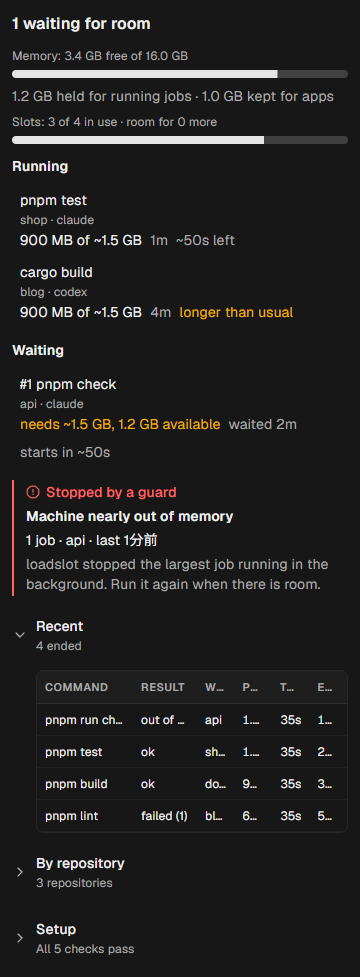
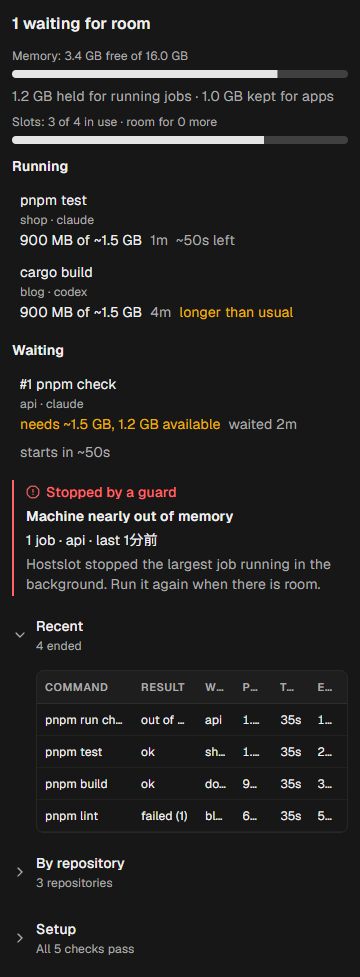
docs: rewrite the README for the public release (#84)

Changed region(s): [[0.0611, 0.5527, 0.9167, 0.5834]]

diff --git a/README.md b/README.md
@@ -1,28 +1,38 @@
 # Hostslot
 
+[![CI](https://github.com/ryusenkei-inc/hostslot/actions/workflows/ci.yaml/badge.svg)](https://github.com/ryusenkei-inc/hostslot/actions/workflows/ci.yaml)
+[![Release](https://img.shields.io/github/v/release/ryusenkei-inc/hostslot)](https://github.com/ryusenkei-inc/hostslot/releases)
+[![License: MIT](https://img.shields.io/badge/license-MIT-blue)](LICENSE)
+
 Run more coding agents in parallel without freezing your machine.
 
-Hostslot schedules what parallel coding agents share on one machine. Heavy commands (type checks, test runners, builds) get capacity: each starts when there is room in memory and CPU, the rest wait their turn, and a runaway is stopped before it takes the machine down. Exclusive resources such as dev-server ports get leased per worktree (planned).
+Hostslot schedules what parallel coding agents share on one machine:
 
-```sh
-hostslot run -- pnpm test     # waits for a slot, then runs pnpm test
-```
+- **Capacity for heavy commands.** Type checks, test runners and builds start when there is room in memory and CPU; the rest wait their turn, and a runaway is stopped before it takes the machine down
+- **A port for each dev server.** Every worktree's dev server gets its own port, and agents are told the URL, so they never reach another worktree's server
+
+<img src="docs/images/orca-panel.png" alt="The Hostslot panel in Orca: memory and slots, running and waiting jobs, a guard stop, recent jobs" width="360">
 
 ## Quick start
 
-1. Install: download the archive for your OS from [Releases](https://github.com/ryusenkei-inc/hostslot/releases) and put `hostslot` on your `PATH`, or `go install github.com/ryusenkei-inc/hostslot/cmd/hostslot@latest` (Go 1.26+).
-2. Connect your agents: `hostslot setup` registers the hooks of Claude Code and Codex.
-3. Check: `hostslot doctor`.
+**In [Orca](https://github.com/stablyai/orca):** add the Hostslot plugin, open its panel from the status bar and press **Install Hostslot**. It downloads the release for your OS, checks it, and connects Claude Code and Codex.
 
-To upgrade, replace the binary (on Windows, rename the running `hostslot.exe` first) and run `hostslot setup`, which also retires the old daemon.
+**Without Orca:**
 
-From then on, heavy commands your agents run go through Hostslot. `hostslot status` shows what runs and waits; in [Orca](#orca), the status bar and a panel show it.
+1. Download the archive for your OS from [Releases](https://github.com/ryusenkei-inc/hostslot/releases) and put `hostslot` on your `PATH`, or `go install github.com/ryusenkei-inc/hostslot/cmd/hostslot@latest` (Go 1.26+)
+2. `hostslot setup` registers the hooks of Claude Code and Codex
+3. `hostslot doctor` checks the setup
 
-In Orca, the plugin does steps 1 and 2 for you: its panel offers to install Hostslot and run its setup.
+From then on, your agents' heavy commands go through Hostslot and their dev servers get their own ports. `hostslot status` shows what runs and waits. To upgrade, replace the binary (on Windows, rename the running `hostslot.exe` first) and run `hostslot setup`.
+
+```sh
+hostslot run -- pnpm test      # waits for room, then runs pnpm test
+hostslot serve -- pnpm dev     # runs the dev server on this worktree's port
+```
 
 ## Why
 
-Several agents, each in its own worktree, start `tsc`, test suites and builds at the same time. On a 16 GB machine that exhausts memory: everything freezes and the OOM killer takes agents with it. Agent IDEs can cap the number of agents, but nothing coordinates the commands they run.
+Several agents, each in its own worktree, start `tsc`, test suites and builds at the same time. On a 16 GB machine that exhausts memory: everything freezes and the OOM killer takes agents with it. Their dev servers also start on the same default ports, and some quietly move to the next one, so an agent's tests reach another worktree's app. Agent IDEs can cap the number of agents, but nothing coordinates what the agents run.
 
 ### Why at the process level
 
@@ -31,13 +41,13 @@ Several agents, each in its own worktree, start `tsc`, test suites and builds at
 | Tool limits don't add up | `--maxWorkers` or an IDE's agent limit each bound one program; four agents that respect theirs still start four type checks together |
 | The cost is in commands | Agents cost little while they think. Gating their heavy commands, not the agents, keeps many agents working and lets only the heavy parts take turns |
 | Only the OS sees it all | The process tree shows a command's real memory, children included, in any language; the OS can also act on it (priority, Job Objects, signals) |
-| It works with anything | A command line in, the same command out: one gate for agents, people, git hooks and scripts |
+| It works with anything | A command line in, the same command out: one scheduler for agents, people, git hooks and scripts |
 
 The OS's own tools don't queue: cgroups and Job Object limits make a capped build fail instead of wait, early-OOM killers act after memory is gone, and the scheduler has no notion of jobs worth waiting for. Hostslot uses those mechanisms and adds a queue, priorities and learned costs.
 
 ### Hostslot and Orca
 
-Hostslot is made for [Orca](https://github.com/stablyai/orca) first, and the two do different jobs: Orca runs, shows and paces agents; Hostslot schedules the heavy work the agents start, across the whole machine, and guards memory while it runs. As of Orca 1.4.25x:
+Hostslot is made for Orca first, and the two do different jobs: Orca runs, shows and paces agents; Hostslot schedules what the agents start, across the whole machine. As of Orca 1.4.25x:
 
 | Need | Orca | Hostslot |
 | --- | --- | --- |
@@ -47,23 +57,23 @@ Hostslot is made for [Orca](https://github.com/stablyai/orca) first, and the two
 | Know a command's cost | Not covered | Learns peak memory and duration per repository |
 | Share CPU fairly | Not covered | Lower OS priority and inner parallelism per job |
 | Stop a runaway | Not covered (on Linux, one OOM kill no longer takes every terminal) | Per-job ceiling, out-of-memory stop, cleanup of leftovers |
-| Dev-server ports | Shows listening ports per workspace | Planned: a port leased per worktree |
+| Dev-server ports | Shows listening ports per workspace | Gives each worktree's dev server its own port and tells the agent the URL |
 | Scope | Orca's terminals | The whole machine: any editor or terminal, agent hooks, git hooks, scripts |
 
 ### Compared with similar tools
 
 | | File-lock wrappers | Generic command queues | OS limits (cgroups, Job Objects) | Per-worktree port tools | **Hostslot** |
 | --- | --- | --- | --- | --- | --- |
-| Scope | Commands you wrap | Commands you submit | Processes you put under them | Dev servers you start through them | Everything that runs heavy commands on the machine: agents, editors, terminals, git hooks, scripts |
+| Scope | Commands you wrap | Commands you submit | Processes you put under them | Dev servers you start through them | Everything that runs heavy commands or dev servers on the machine: agents, editors, terminals, git hooks, scripts |
 | Heavy commands wait instead of piling up | Yes, by a fixed count | Yes, by a fixed count | No: capped work fails | — | Yes, admitted by free slots and free memory |
 | Knows what a command costs | No | No | You set the limit | — | Learns peak memory and duration per repository and command |
 | People before agents | No | Manual priorities | No | — | Interactive jobs first; agents at a lower OS priority |
 | Shares CPU inside jobs | No | No | CPU quotas | — | Sets each job's worker count (test runners, workspace concurrency) |
 | Stops a runaway | No | No | At the limit, as an allocation failure | — | Per-job ceiling and out-of-memory stop, with a clear exit code; leftover processes cleaned up |
-| Agents need no new habits | A rule or wrapper to remember | Submit through the queue | Set up per process | A command or env file per worktree | Hooks rewrite the heavy commands in place, pipes and `&&` included |
+| Dev-server ports | — | — | — | A port per worktree | A port per worktree, handed to the tool (Vite included) and told to the agent |
+| Agents need no new habits | A rule or wrapper to remember | Submit through the queue | Set up per process | A command or env file per worktree | Hooks rewrite heavy and dev-server commands in place, pipes and `&&` included |
 | Shows what runs and waits | No | Its own list | No | Ports in use | Status bar and panel in Orca, `hostslot status` |
 | Windows, macOS, Linux | Mostly macOS and Linux | Varies | One OS each | Varies | All three |
-| Dev-server ports | — | — | — | Yes | Planned |
 
 ## How it works
 
@@ -94,7 +104,7 @@ You decide with `hostslot run`. The integrations decide like this:
 
 | Integration | Gated |
 | --- | --- |
-| Agent hooks (Claude Code, Codex) | Each heavy command in the line, rewritten in place (below); the rest of the line runs as written |
+| Agent hooks (Claude Code, Codex) | Each heavy command in the line, rewritten in place (see [Claude Code](#claude-code)); the rest of the line runs as written |
 | git pre-push | The push's `check` script |
 | Package scripts | Whatever you wrap |
 
@@ -106,6 +116,29 @@ A command is heavy when it is one of:
 - `go test|build|vet`, `cargo test|build|check|clippy`
 
 The line is parsed as shell, so text in quotes, heredocs and comments never counts. Installs, git, formatters and prose linters stay ungated and never wait. `hostslot hook claude --match <regex>` (or `hook codex`) replaces the list.
+
+## Dev-server ports
+
+Parallel worktrees, of one repository or several, start the same dev servers on the same default ports, and some (Vite) quietly move to the next one. Hostslot gives each service of each worktree its own port, keeps it, and hands it over:
+
+```sh
+hostslot serve -- pnpm dev          # hostslot: shop on http://localhost:21643 (PORT=21643)
+hostslot serve -- vite --port {port}
+hostslot serve --fixed 3000 -- pnpm dev   # a port that can't move (an OAuth callback): one worktree at a time
+hostslot port web                   # just print the port
+hostslot port --list                # every assigned port, with its worktree
+```
+
+| | |
+| --- | --- |
+| **Service** | The package's name without its scope (`@acme/shop` → `shop`), else its directory; `--name` to choose |
+| **Port** | The tool's default (Vite 5173, Next.js 3000) for the first service that asks while nothing listens on it, and it stays with it. Others get a free port from 20000-29999, starting where the key (repository + worktree + service) points |
+| **Handed over** | `PORT`, `PORT_<NAME>` and `HOSTSLOT_PORT`; `{port}` in the command; for Vite, `--port N --strictPort` appended, also over a port written in the script |
+| **Checked** | When nothing listens on the port after 30 s, it says the app likely ignores `PORT` and how to fix it |
+| **Freed** | When the worktree is removed |
+| **Slots** | None: a dev server runs for hours and doesn't wait for capacity |
+
+Agents' dev-server commands go through `hostslot serve` by themselves: the hooks below rewrite them and tell the agent the URL.
 
 ## What it learns
 
@@ -125,13 +158,10 @@ Each finished job adds a sample to `samples.json` in the data directory. Nothing
 
 This repository is also an Orca plugin (`orca-plugin.json` at the root, code in `apps/orca-plugin`).
 
-<img src="docs/images/orca-panel.png" alt="The Hostslot panel in Orca: memory and slots, running and waiting jobs, a guard stop, recent jobs" width="360">
-
 - **Status bar:** `Hostslot 2/4 · 1 waiting · 3.1 GB free`; yellow while jobs wait or the setup has a problem, red when memory is nearly gone
-- **Panel** (press the item to open the right sidebar, then pick the Hostslot tab once): memory and slots; running jobs with repository, worktree, agent and time left; waiting jobs with why and when they start; recent outcomes, with guard stops called out; jobs by repository; setup checks
-- **Install from the panel:** when Hostslot is missing or older than the plugin, the panel offers to install the plugin's version. On the press, it downloads the executable from the GitHub release, checks it against the release's `checksums.txt`, puts it in `bin` in Hostslot's data directory and runs `hostslot setup`. When a hook is missing, it offers `hostslot setup` alone. Nothing is downloaded or written before a press
-- It reads `hostslot status --json` every 5 seconds. It finds `hostslot` at `HOSTSLOT_BIN`, in its own `bin`, on Orca's `PATH`, in `~/.local/bin`, `~/go/bin`, WinGet's `Links` or Homebrew's `bin`
-- It only shows; gating comes from the agents' hooks
+- **Panel** (press the item to open the right sidebar, then pick the Hostslot tab once): memory and slots; running jobs with repository, worktree, agent and time left; waiting jobs with why and when they start; jobs a guard stopped; recent outcomes; jobs by repository; setup problems with one button to fix them
+- **Install from the panel:** when Hostslot is missing or older than the plugin, the panel offers to install the plugin's version. On the press, it downloads the executable from the GitHub release, checks it against the release's `checksums.txt`, puts it in `bin` in Hostslot's data directory and runs `hostslot setup`. Nothing is downloaded or written before a press
+- It reads `hostslot status --json` every 5 seconds and only shows; scheduling comes from the agents' hooks
 - Development: `orca plugin dev load .`, then `orca plugin logs local.hostslot`
 
 ### Claude Code
@@ -144,16 +174,21 @@ hostslot setup --remove   # remove it
 
 `setup` touches only its own entry (other keys keep their order, other tools' hooks stay), and points the hook at a path that survives upgrades when a package manager links one onto the `PATH`.
 
-The hook rewrites only the heavy commands, in place:
+The hook rewrites only heavy and dev-server commands, in place:
 
 ```sh
 cd apps/site && pnpm test 2>&1 | tail -20
 # becomes (abridged; the real prefix also carries --weight, --max-wait and --timeout)
 cd apps/site && '<hostslot>' run --priority background --source claude --as 'pnpm test' -- pnpm test 2>&1 | tail -20
+
+pnpm dev
+# becomes, and Claude is told "`pnpm dev` (shop) on http://localhost:21643 (PORT=21643)"
+'<hostslot>' serve -- pnpm dev
 ```
 
 - A slot is held only while `pnpm test` runs, and `cd` carries over to the agent's next command
 - Waiting doesn't eat into the command's timeout: the hook raises the Bash tool's timeout to 10 minutes, keeps the command's own as `--timeout` and gives the rest to `--max-wait`. Out of time, the call exits `75` so the agent can retry
+- Dev-server commands: package scripts `dev`, `start`, `serve`, `preview` (also `dev:*`), `vite` (not `vite build`), `next dev|start`, `astro dev|preview`, `nuxt dev`, `wrangler dev`, `storybook dev`, and scripts that run one
 - Permission rules see the rewritten command, so an allow rule such as `Bash(pnpm test:*)` no longer matches it
 - `HOSTSLOT_DISABLE=1` in the environment or the command line turns it off
 
@@ -161,12 +196,12 @@ cd apps/site && '<hostslot>' run --priority background --source claude --as 'pnp
 
 `hostslot setup` also adds a `PreToolUse` hook to `~/.codex/hooks.json` (or `$CODEX_HOME`). Codex runs a new or changed hook only after you trust it: start Codex and review it with `/hooks`.
 
-The hook rewrites heavy commands in place, as for Claude Code; on Windows the prefix is PowerShell (`& '<hostslot>' run … -- pnpm test`). It gates only where it can:
+The hook rewrites heavy and dev-server commands in place, as for Claude Code; on Windows the prefix is PowerShell (`& '<hostslot>' run … -- pnpm test`). It works only where it can:
 
 | Codex session | What happens |
 | --- | --- |
-| No approvals, no sandbox (full access, `--dangerously-bypass-approvals-and-sandbox`) | Gated |
-| No approvals, in the sandbox | Rewritten, but the sandbox keeps Hostslot from its daemon (on Windows it is another user), so the command runs ungated |
+| No approvals, no sandbox (full access, `--dangerously-bypass-approvals-and-sandbox`) | Scheduled |
+| No approvals, in the sandbox | Rewritten, but the sandbox keeps Hostslot from its daemon (on Windows it is another user), so the command runs unscheduled |
 | With approvals | Left alone: Codex applies a rewrite only with an "allow" decision, which may skip your approval |
 
 ### git pre-push
@@ -181,31 +216,10 @@ The shared `pre-push` of [`@ryusenkei/conventions`](https://www.npmjs.com/packag
 ### Package scripts
 
 ```json
-{ "scripts": { "test": "hostslot run -- vitest run" } }
+{ "scripts": { "test": "hostslot run -- vitest run", "dev": "hostslot serve -- vite" } }
 ```
 
 Where Hostslot is installed but not wanted (CI), set `HOSTSLOT_DISABLE=1`.
-
-## Dev-server ports
-
-Parallel worktrees, of one repository or several, start the same dev servers on the same default ports, and some (Vite) quietly move to the next one, so agents and tests reach another worktree's server. Hostslot gives each service of each worktree its own port, keeps it, and hands it over:
-
-```sh
-hostslot serve -- pnpm dev          # hostslot: shop on http://localhost:21643 (PORT=21643)
-hostslot serve -- vite --port {port}
-hostslot serve --fixed 3000 -- pnpm dev   # a port that can't move (an OAuth callback): one worktree at a time
-hostslot port web                   # just print the port
-hostslot port --list                # every assigned port, with its worktree
-```
-
-| | |
-| --- | --- |
-| **Service** | The package's name without its scope (`@acme/shop` → `shop`), else its directory; `--name` to choose |
-| **Port** | The tool's default (Vite 5173, Next.js 3000) for the first service that asks while nothing listens on it, and it stays with it. Others get a free port from 20000-29999, starting where the key (repository + worktree + service) points |
-| **Handed over** | `PORT`, `PORT_<NAME>` and `HOSTSLOT_PORT`; `{port}` in the command; for Vite, `--port N --strictPort` appended, also over a port written in the script |
-| **Checked** | When nothing listens on the port after 30 s, it says the app likely ignores `PORT` and how to fix it |
-| **Freed** | When the worktree is removed |
-| **Slots** | None: a dev server runs for hours and doesn't wait for capacity |
 
 ## Reference
 
@@ -279,7 +293,7 @@ Data directory: `~/.local/share/hostslot` (Linux, or `$XDG_DATA_HOME`), `~/Libra
 
 | Path | Purpose |
 | --- | --- |
-| `cmd/hostslot` | CLI |
+| `cmd/hostslot` | CLI, one file per command |
 | `internal/gate` | Scheduler core, OS-independent and pure: slots, admission, priority, estimates |
 | `internal/platform` | OS ports: memory, process tracking, IPC, locks, paths (one file per OS) |
 | `internal/daemon` | Daemon and client over IPC |
